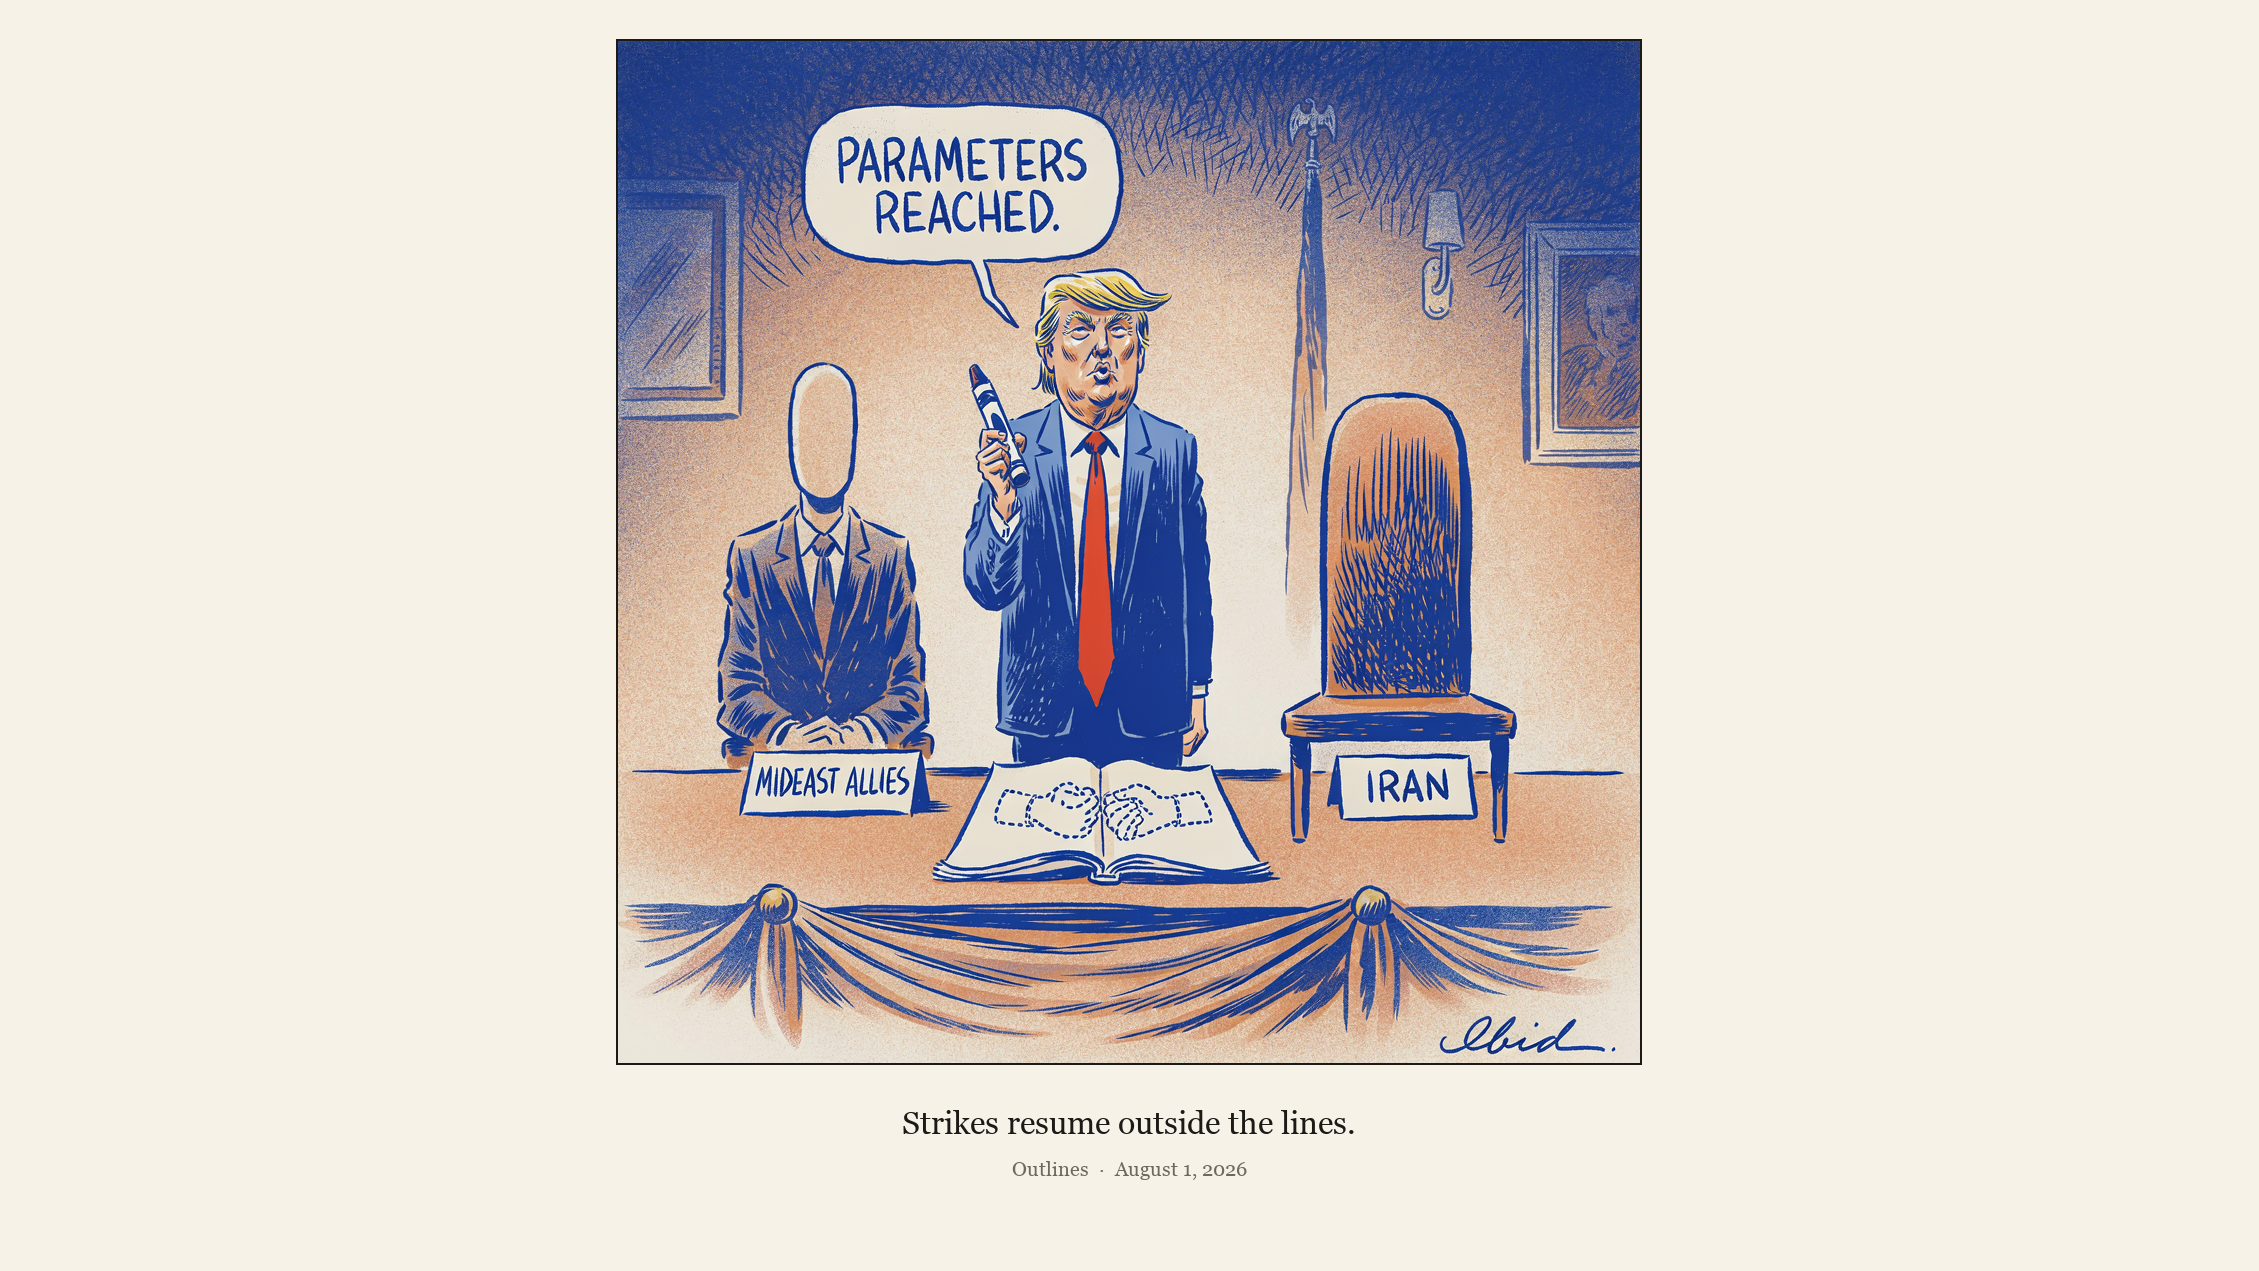
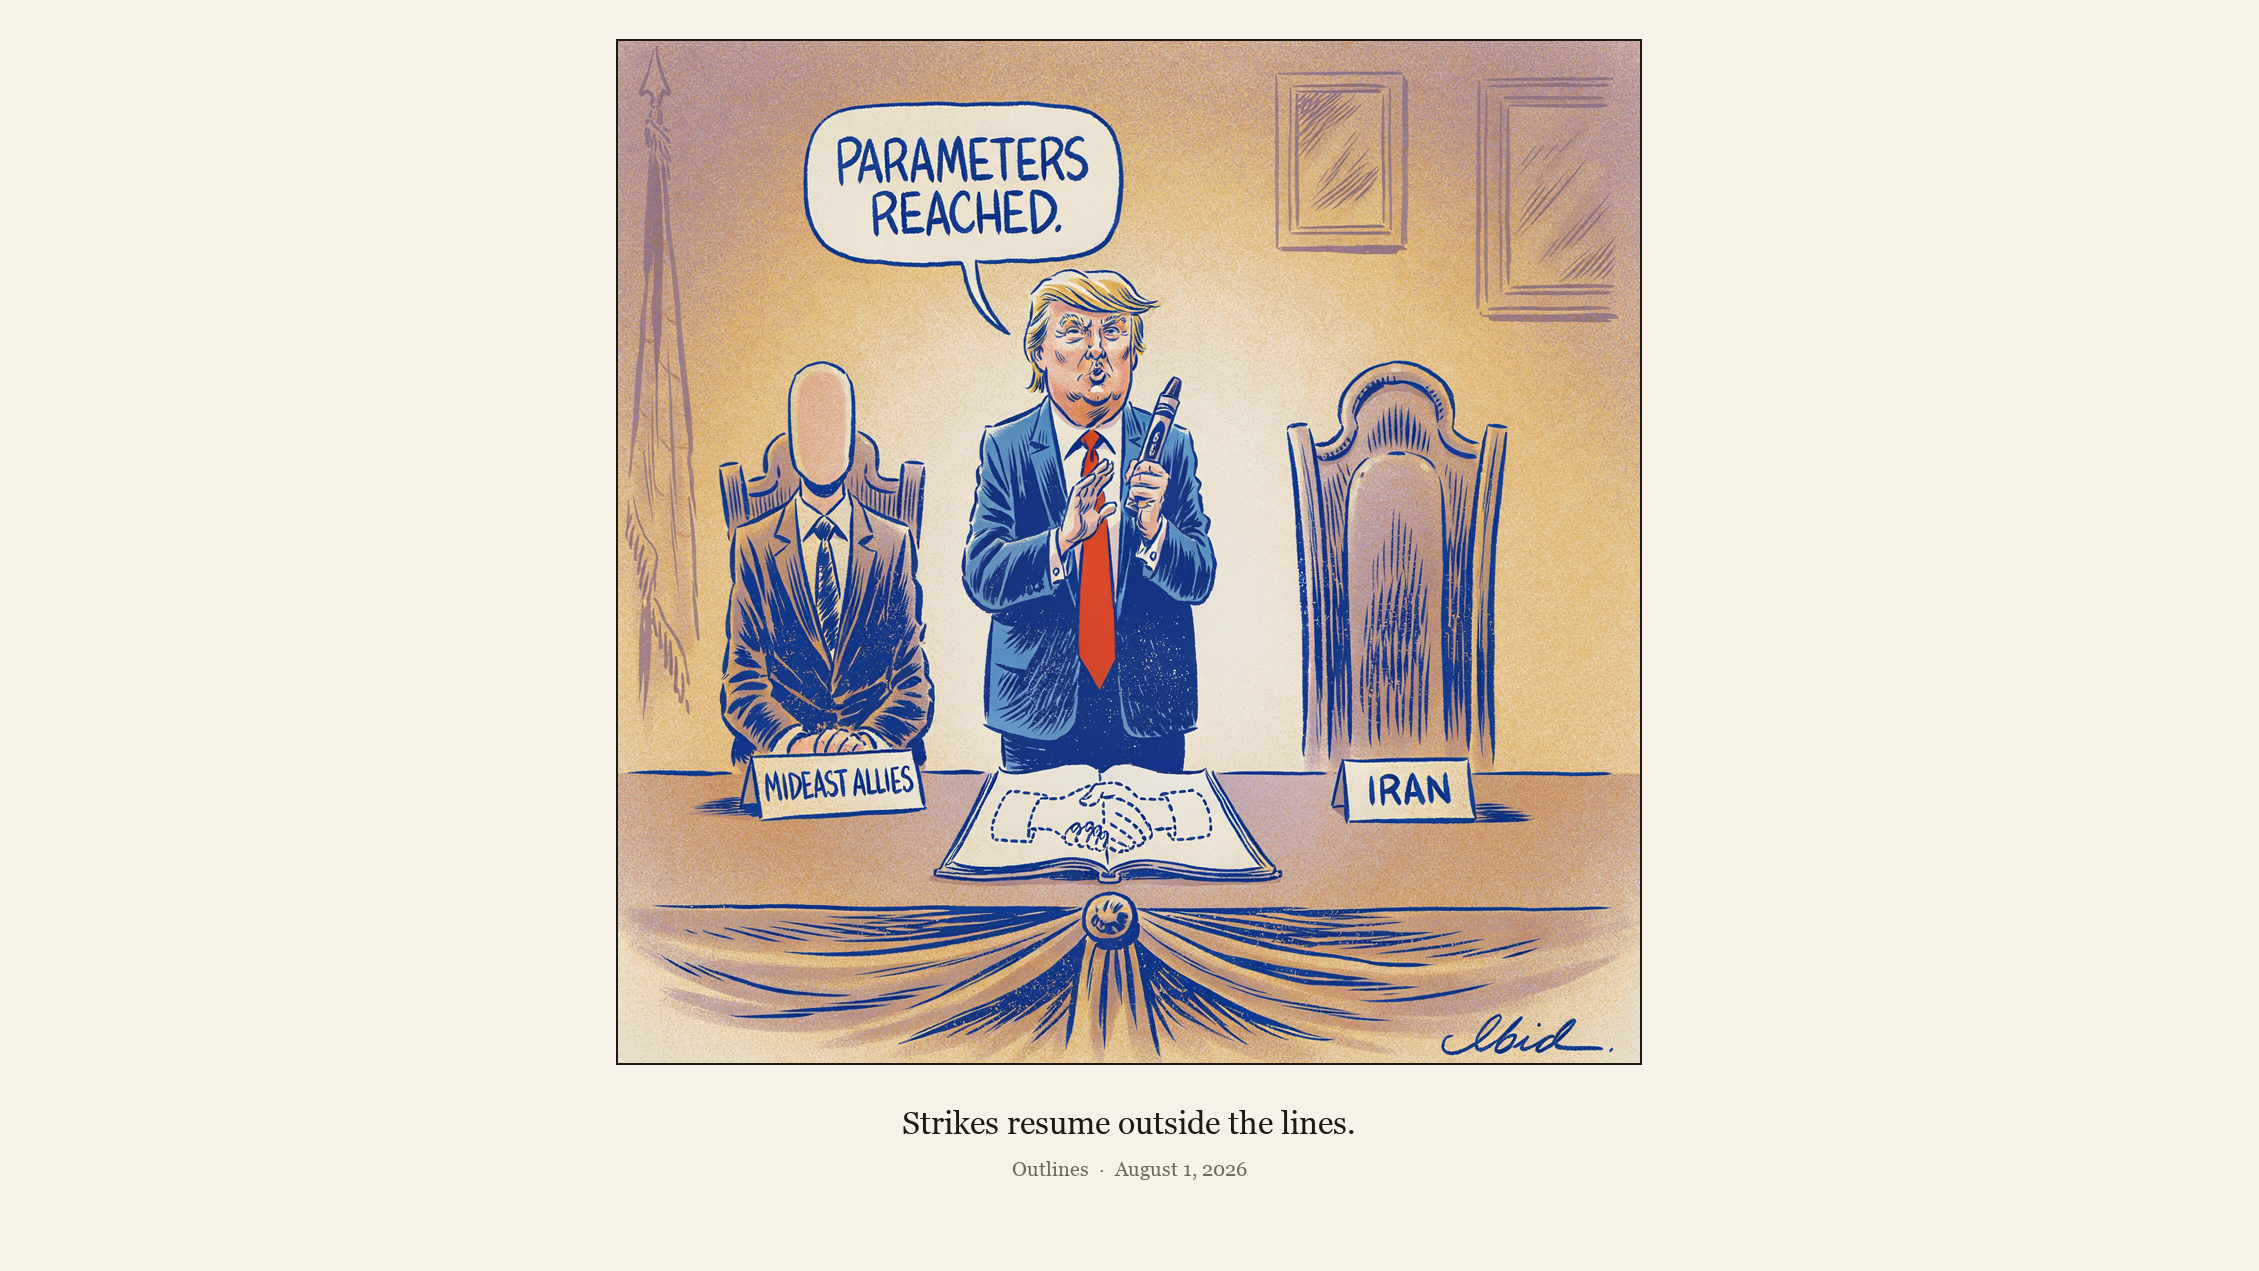
publish

Changed region(s): [[0.2479, 0.0307, 0.7437, 0.8592]]

diff --git a/index.html b/index.html
@@ -6,7 +6,7 @@
 <link rel="alternate" type="application/rss+xml" href="feed.xml">
 </head><body><div class="wrap">
 <header class="site"><h1>Ibid.</h1><p>cartoons about power — sources cited</p></header>
-<div class="card" style="--accent:#24408a"><a class="img" href="p/20260802-outlines.html"><img src="images/20260802-outlines_master.png" alt="Editorial cartoon: at a treaty-signing table, Donald Trump beams and holds a fat blunt crayon aloft over an oversized coloring-book page showing a dotted, entirely uncolored outline of two clasped hands. He is flanked by two faceless suited delegates, one behind a nameplate reading MIDEAST ALLIES. At the far end of the table a chair sits empty and pushed in behind a place card reading IRAN." loading="lazy"></a><div class="strip"></div><h2><a href="p/20260802-outlines.html">Strikes resume outside the lines.</a></h2><p class="kicker">Outlines <span class="dot">&middot;</span> August 1, 2026</p></div>
+<div class="card" style="--accent:#dab381"><a class="img" href="p/20260802-outlines.html"><img src="images/20260802-outlines_master.png" alt="Editorial cartoon: at a treaty-signing table, Donald Trump beams and holds a fat blunt crayon aloft over an oversized coloring-book page showing a dotted, entirely uncolored outline of two clasped hands. He is flanked by two faceless suited delegates, one behind a nameplate reading MIDEAST ALLIES. At the far end of the table a chair sits empty and pushed in behind a place card reading IRAN." loading="lazy"></a><div class="strip"></div><h2><a href="p/20260802-outlines.html">Strikes resume outside the lines.</a></h2><p class="kicker">Outlines <span class="dot">&middot;</span> August 1, 2026</p></div>
 <div class="card" style="--accent:#845b2a"><a class="img" href="p/20260802-the-assurance.html"><img src="images/20260802-the-assurance_master.png" alt="A colored-pencil style editorial cartoon shows a courtroom where a caricatured Donald Trump leans across a sheet-covered body on a gurney, pressing defibrillator paddles to it while a speech bubble above him reads &quot;It&#x27;s dead.&quot;; the body&#x27;s exposed foot bears a toe tag labeled &quot;$1.776BN FUND&quot; and a placard on the sheet reads &quot;BLANCHE&quot;. Behind the gurney, a man raises his right hand as if being sworn in, while two older men in suits sit at an elevated wooden bench, one reading papers and one holding a pen, with a U.S. flag at the left and the signature &quot;Ibid.&quot; in the lower right corner." loading="lazy"></a><div class="strip"></div><h2><a href="p/20260802-the-assurance.html">Cornyn and Tillis asked for assurances.</a></h2><p class="kicker">The Assurance <span class="dot">&middot;</span> August 1, 2026</p></div>
 <div class="card" style="--accent:#cfa377"><a class="img" href="p/20260801-one-month.html"><img src="images/20260801-one-month_master.png" alt="On flat empty scrubland with no wall or fence anywhere, a labelled Antonio Tajani crouches and padlocks a heavy chain across a single freestanding door stencilled SCHENGEN, open ground visible past both jambs." loading="lazy"></a><div class="strip"></div><h2><a href="p/20260801-one-month.html">Rome&#x27;s item for Tuesday&#x27;s emergency Council.</a></h2><p class="kicker">One Month <span class="dot">&middot;</span> August 1, 2026</p></div>
 <div class="card" style="--accent:#97392d"><a class="img" href="p/20260801-today-s-specials.html"><img src="images/20260801-today-s-specials_master.png" alt="A political cartoon shows a caricature of Donald Trump standing on a paint-splattered stepladder in front of a columned building, tucking dollar bills into his pocket while changing letters on a large marquee-style price board that reads &quot;TRUTH API $100,000 MO&quot; and &quot;MULTI-YEAR $60,000&quot;; a speech balloon from him says &quot;Free tier reads the newspaper.&quot; To the right, a heavyset bearded man in sunglasses and an apron labeled &quot;DON JR.&quot; holds out a card-payment terminal with cash stuffed in his apron pocket, while at lower left a crowd of men raises hands, smartphones, and money toward the sign, and the artist&#x27;s signature &quot;lbid&quot; appears in the bottom right corner." loading="lazy"></a><div class="strip"></div><h2><a href="p/20260801-today-s-specials.html">The trust is revocable.</a></h2><p class="kicker">Today&#x27;s Specials <span class="dot">&middot;</span> August 1, 2026</p></div>

diff --git a/p/20260802-outlines.html b/p/20260802-outlines.html
@@ -12,7 +12,7 @@
 </head><body><div class="wrap">
 <header class="site"><h1>Ibid.</h1><p>cartoons about power — sources cited</p></header>
 <a class="back" href="../index.html">&larr; all cartoons</a>
-<article style="--accent:#24408a"><div class="strip"></div><h1 class="punch">Strikes resume outside the lines.</h1><p class="kicker">Outlines</p><p class="meta">August 1, 2026 &middot; Ibid.</p>
+<article style="--accent:#dab381"><div class="strip"></div><h1 class="punch">Strikes resume outside the lines.</h1><p class="kicker">Outlines</p><p class="meta">August 1, 2026 &middot; Ibid.</p>
 <img src="../images/20260802-outlines_master.png" alt="Editorial cartoon: at a treaty-signing table, Donald Trump beams and holds a fat blunt crayon aloft over an oversized coloring-book page showing a dotted, entirely uncolored outline of two clasped hands. He is flanked by two faceless suited delegates, one behind a nameplate reading MIDEAST ALLIES. At the far end of the table a chair sits empty and pushed in behind a place card reading IRAN.">
 <p class="summary">President Trump said Mideast allies have reached the outlines of a deal to end the Iran war and that the US will halt new strikes. AP reported the announcement came from Trump rather than from any signatory, with the pause conditioned on &quot;parameters reached&quot; rather than a signed agreement. The allies credited were not named, and Iran was not reported as a party to the outlines.</p>
 <footer class="src">Source: <a href="https://apnews.com/article/iran-war-trump-saudi-crown-prince-call-814164417aa284dc8a6d34ac22ea1a8e" rel="noopener">Trump claims Mideast allies have reached outlines of deal to end Iran war</a> (apnews.com)</footer></article>
